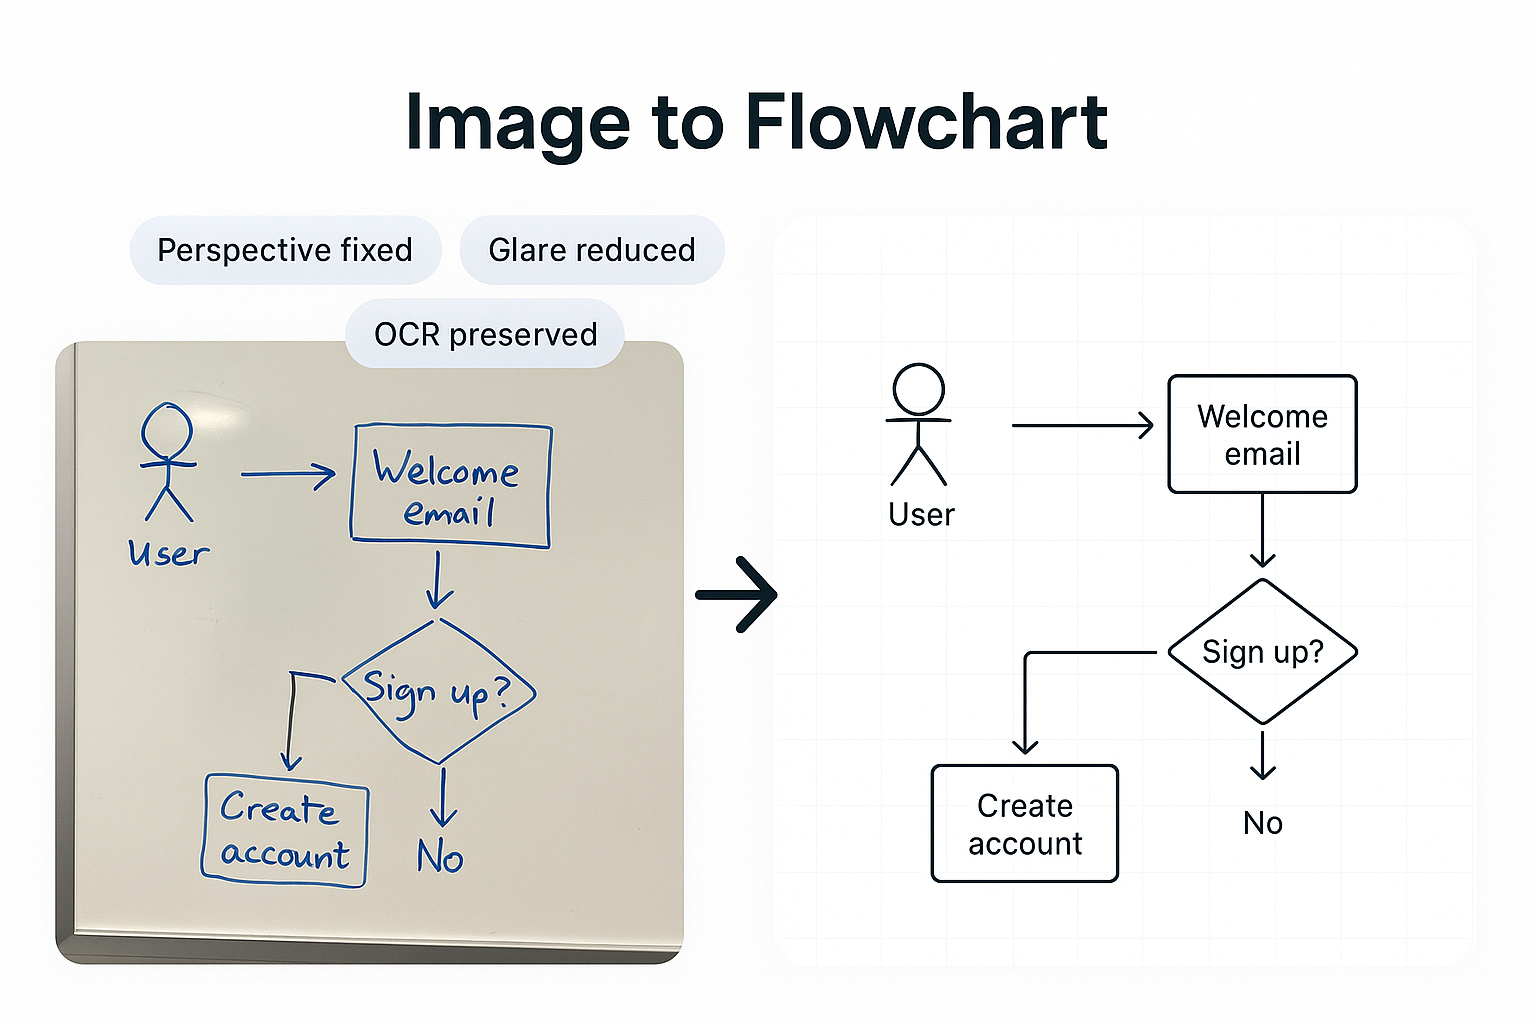
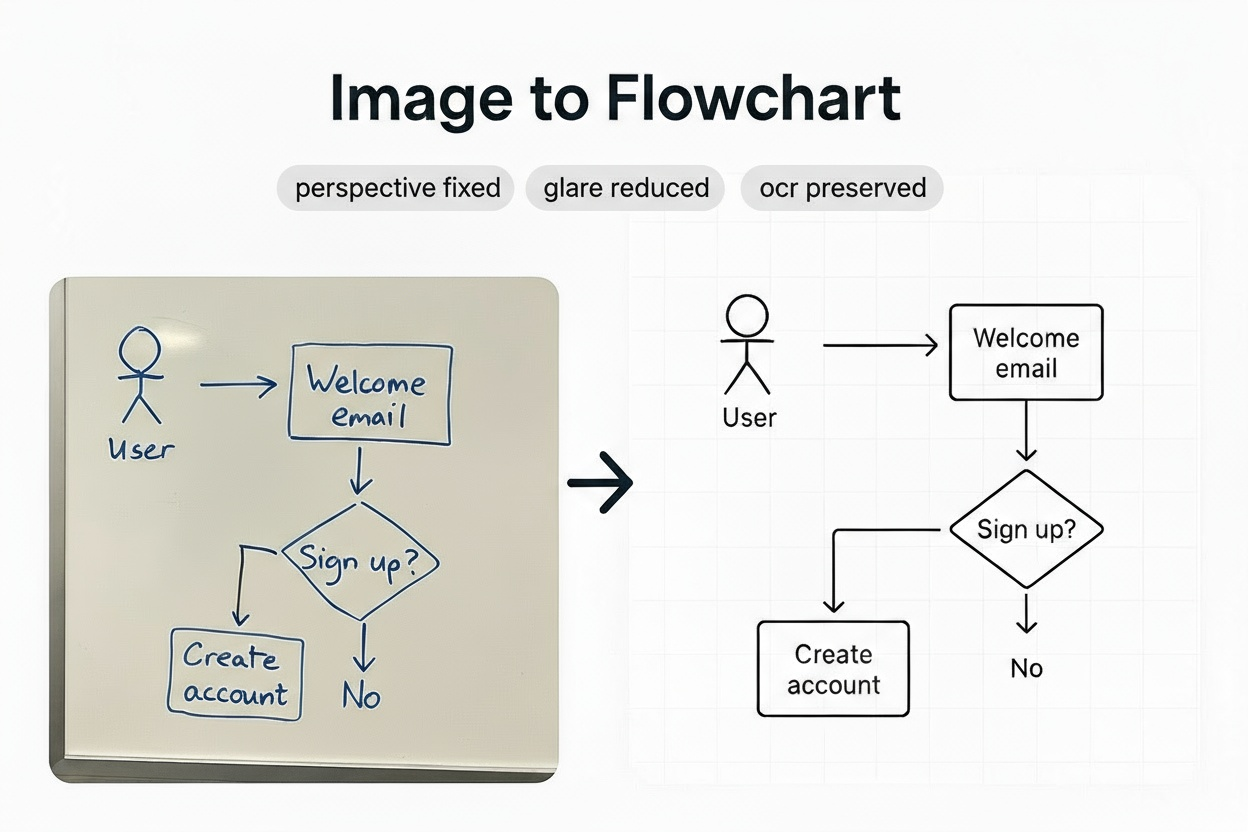
faet: pic for landing page updated

diff --git a/src/components/blocks/features/features.tsx b/src/components/blocks/features/features.tsx
@@ -2,16 +2,23 @@
 
 import { HeaderSection } from '@/components/layout/header-section';
 import { BorderBeam } from '@/components/magicui/border-beam';
-import { Button } from '@/components/ui/button';
-import { Card } from '@/components/ui/card';
 import {
   Accordion,
   AccordionContent,
   AccordionItem,
   AccordionTrigger,
 } from '@/components/ui/accordion';
+import { Button } from '@/components/ui/button';
+import { Card } from '@/components/ui/card';
 import { startFlowchartSession } from '@/lib/utils';
-import { FileText, GitBranch, ListChecks, PenSquare, Repeat, Wand2 } from 'lucide-react';
+import {
+  FileText,
+  GitBranch,
+  ListChecks,
+  PenSquare,
+  Repeat,
+  Wand2,
+} from 'lucide-react';
 import { AnimatePresence, motion } from 'motion/react';
 import { useTranslations } from 'next-intl';
 import Image from 'next/image';
@@ -38,28 +45,50 @@ export default function FeaturesSection() {
   const examplesTitle = t('examplesSection.title');
   const router = useRouter();
 
-  const images = {
+  const images: Record<
+    ImageKey,
+    {
+      image: string;
+      darkImage: string;
+      alt: string;
+      width: number;
+      height: number;
+    }
+  > = {
     'item-1': {
       image: 'https://cdn.flowchartai.org/static/blocks/feature1.png',
       darkImage: 'https://cdn.flowchartai.org/static/blocks/feature1.png',
       alt: 'Product Feature One',
+      width: 1024,
+      height: 1024,
     },
     'item-2': {
       image: 'https://cdn.flowchartai.org/static/blocks/feature2.png',
       darkImage: 'https://cdn.flowchartai.org/static/blocks/feature2.png',
       alt: 'Product Feature Two',
+      width: 1024,
+      height: 1024,
     },
     'item-3': {
       image: 'https://cdn.flowchartai.org/static/blocks/feature3.png',
       darkImage: 'https://cdn.flowchartai.org/static/blocks/feature3.png',
       alt: 'Product Feature Three',
+      width: 1024,
+      height: 1024,
     },
     'item-4': {
       image: 'https://cdn.flowchartai.org/static/blocks/feature4.png',
       darkImage: 'https://cdn.flowchartai.org/static/blocks/feature4.png',
       alt: 'Product Feature Four',
+      width: 1024,
+      height: 1024,
     },
   };
+
+  const activeMedia = images[activeItem];
+  const aspectRatio = activeMedia.height
+    ? activeMedia.width / activeMedia.height
+    : 1.3;
 
   return (
     <section id="features" className="px-4 py-16">
@@ -79,14 +108,16 @@ export default function FeaturesSection() {
               <h3 className="text-3xl font-semibold lg:text-4xl text-gradient_indigo-purple leading-normal py-1">
                 {t('overviewTitle')}
               </h3>
-              <p className="mt-4 text-muted-foreground">{t('overviewDescription')}</p>
+              <p className="mt-4 text-muted-foreground">
+                {t('overviewDescription')}
+              </p>
             </div>
-              <Accordion
-                type="single"
-                value={activeItem}
-                onValueChange={(value) => setActiveItem(value as ImageKey)}
-                className="w-full"
-              >
+            <Accordion
+              type="single"
+              value={activeItem}
+              onValueChange={(value) => setActiveItem(value as ImageKey)}
+              className="w-full"
+            >
               <AccordionItem value="item-1">
                 <AccordionTrigger>
                   <div className="flex items-center gap-2 text-base">
@@ -135,7 +166,10 @@ export default function FeaturesSection() {
           </div>
 
           <div className="bg-background w-full relative flex overflow-hidden rounded-2xl border p-2 lg:h-auto lg:col-span-7">
-            <div className="aspect-76/59 bg-background relative w-full rounded-2xl">
+            <div
+              className="bg-background relative w-full rounded-2xl"
+              style={{ aspectRatio }}
+            >
               <AnimatePresence mode="wait">
                 <motion.div
                   key={`${activeItem}-id`}
@@ -143,21 +177,22 @@ export default function FeaturesSection() {
                   animate={{ opacity: 1, y: 0, scale: 1 }}
                   exit={{ opacity: 0, y: 6, scale: 0.98 }}
                   transition={{ duration: 0.2 }}
-                  className="size-full overflow-hidden rounded-2xl border bg-white dark:bg-zinc-900 shadow-md flex items-center justify-center"
+                  className="relative size-full overflow-hidden rounded-2xl border bg-white dark:bg-zinc-900 shadow-md"
                 >
                   <Image
-                    src={images[activeItem].image}
-                    className="max-w-full max-h-full object-contain dark:hidden"
-                    alt={images[activeItem].alt}
-                    width={1207}
-                    height={929}
+                    src={activeMedia.image}
+                    className="object-cotain dark:hidden"
+                    alt={activeMedia.alt}
+                    fill
+                    sizes="(min-width: 1024px) 640px, 100vw"
+                    priority={activeItem === 'item-1'}
                   />
                   <Image
-                    src={images[activeItem].darkImage}
-                    className="max-w-full max-h-full object-contain dark:block hidden"
-                    alt={images[activeItem].alt}
-                    width={1207}
-                    height={929}
+                    src={activeMedia.darkImage}
+                    className="object-contain hidden dark:block"
+                    alt={activeMedia.alt}
+                    fill
+                    sizes="(min-width: 1024px) 640px, 100vw"
                   />
                 </motion.div>
               </AnimatePresence>
